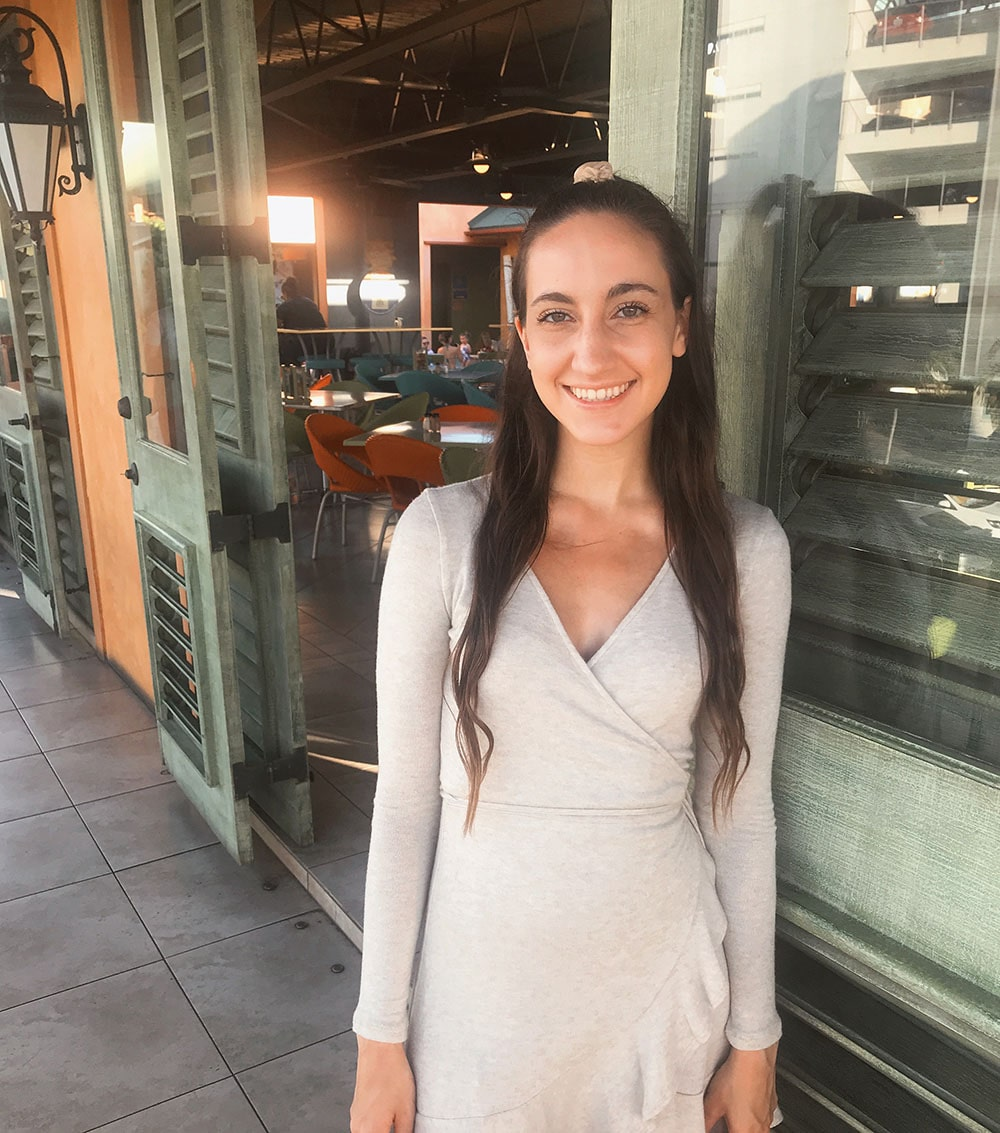
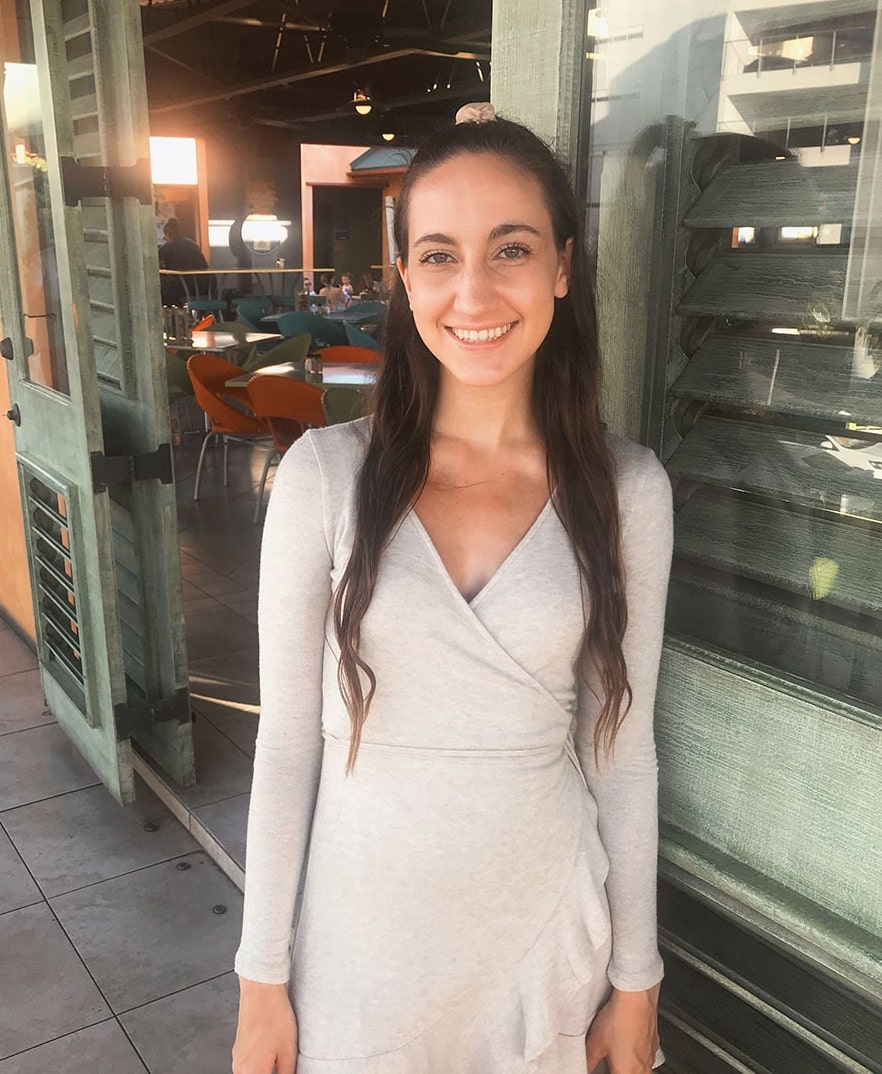
update headshot

diff --git a/about.html b/about.html
@@ -76,7 +76,7 @@
 			<div class="col-md-4">
         <div class="profilepic">
         </div>
-				<!-- <img src="images/Nicole_Fall 2019.jpg" alt="Nicole Dinan headshot" class="img-fluid" height="100%"> -->
+				
 			</div>
 
 			<div class="col-md-8 padding-top">
